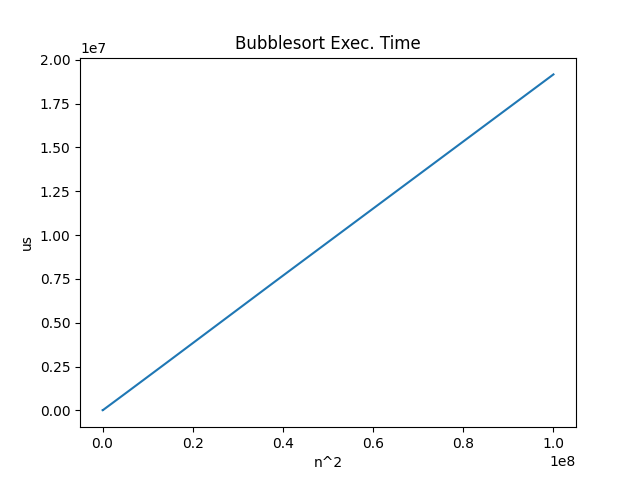
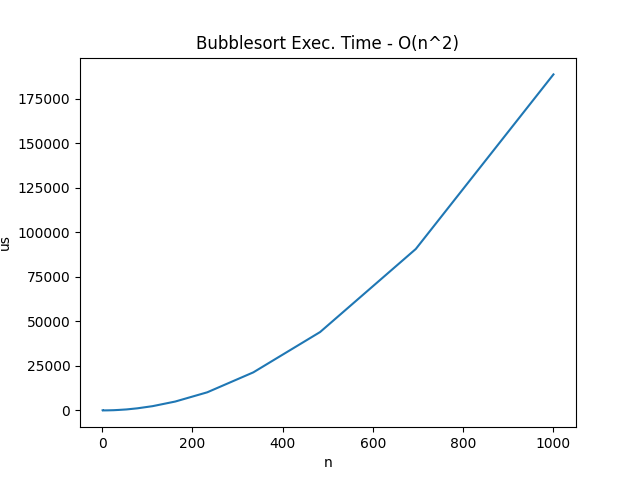
python/mergesort

diff --git a/python/mergesort/mergesort.py b/python/mergesort/mergesort.py
@@ -1,0 +1,90 @@
+import numpy as np
+import matplotlib.pyplot as plt
+from time import perf_counter as time
+
+# O(nlogn)
+def mergesort(a: list, inplace=True):
+    if 0 <= len(a) <= 1:
+        return a
+    
+    if not inplace:
+        arr = a.copy()
+    else:
+        arr = a
+    
+    mergesort_util(arr, 0, len(arr))
+    
+    return arr
+
+def mergesort_util(a: list, i: int, j: int):
+    if j - i == 1:
+        return
+    
+    mid_idx = (j - i) // 2 + i
+    mergesort_util(a, i, mid_idx)
+    mergesort_util(a, mid_idx, j)
+    merge(a, i, j)
+    
+def merge(a: list, i: int, j: int):
+    mid_idx = (j - i) // 2 + i
+    
+    ii = i
+    jj = mid_idx
+    k = 0
+    
+    merged = [None for _ in range(j - i)]
+    while ii < mid_idx and jj < j:
+        if a[ii] < a[jj]:
+            merged[k] = a[ii]
+            ii += 1
+        else:
+            merged[k] = a[jj]
+            jj += 1
+        k += 1
+        
+    while ii < mid_idx:
+        merged[k] = a[ii]
+        ii += 1
+        k += 1
+        
+    while jj < j:
+        merged[k] = a[jj]
+        jj += 1
+        k += 1
+        
+    a[i:j] = merged
+        
+# Test
+print('Mergesort Test 1')
+n_tests = 10
+for _ in range(n_tests):
+    a = np.random.randint(0, 1000000, size=100)
+    assert all(np.array(sorted(a)) == mergesort(a))
+print('PASSED')
+
+# Plot
+n_trials = 5
+n_arrays = 20
+a_lens = np.logspace(0, 6, num=n_arrays).astype(int)
+
+timings = np.zeros(len(a_lens))
+
+for i, a_len in enumerate(a_lens):    
+    avg_timing = 0
+    
+    for trial in range(n_trials):
+        a = np.random.random(size=a_len) * 1000000
+        
+        start = time()
+        mergesort(a)
+        end = time()
+        avg_timing += (end - start) / n_trials
+        
+    timings[i] = avg_timing
+    
+plt.plot(a_lens, timings * 10**6)
+plt.title('Mergesort Exec. Time - O(nlogn)')
+plt.xlabel('n')
+plt.ylabel('us')
+plt.savefig('python/mergesort/complexity.png')
+plt.show()

diff --git a/python/insertion_sort/insertion_sort.py b/python/insertion_sort/insertion_sort.py
@@ -30,7 +30,7 @@ print('PASSED')
 # Plot
 n_trials = 5
 n_arrays = 20
-a_lens = np.logspace(0, 4, num=n_arrays).astype(int)
+a_lens = np.logspace(0, 3, num=n_arrays).astype(int)
 
 timings = np.zeros(len(a_lens))
 
@@ -47,9 +47,9 @@ for i, a_len in enumerate(a_lens):
         
     timings[i] = avg_timing
     
-plt.plot(a_lens**2, timings * 10**6)
-plt.title('Insertion sort Exec. Time')
-plt.xlabel('n^2')
+plt.plot(a_lens, timings * 10**6)
+plt.title('Insertion sort Exec. Time - O(n^2)')
+plt.xlabel('n')
 plt.ylabel('us')
 plt.savefig('python/insertion_sort/complexity.png')
 plt.show()

diff --git a/python/selection_sort/selection_sort.py b/python/selection_sort/selection_sort.py
@@ -30,7 +30,7 @@ print('PASSED')
 # Plot
 n_trials = 5
 n_arrays = 20
-a_lens = np.logspace(0, 4, num=n_arrays).astype(int)
+a_lens = np.logspace(0, 3, num=n_arrays).astype(int)
 
 timings = np.zeros(len(a_lens))
 
@@ -47,9 +47,9 @@ for i, a_len in enumerate(a_lens):
         
     timings[i] = avg_timing
     
-plt.plot(a_lens**2, timings * 10**6)
-plt.title('Selection sort Exec. Time')
-plt.xlabel('n^2')
+plt.plot(a_lens, timings * 10**6)
+plt.title('Selection sort Exec. Time - O(n^2)')
+plt.xlabel('n')
 plt.ylabel('us')
 plt.savefig('python/selection_sort/complexity.png')
 plt.show()

diff --git a/python/bubblesort/bubblesort.py b/python/bubblesort/bubblesort.py
@@ -29,7 +29,7 @@ print('PASSED')
 # Plot
 n_trials = 5
 n_arrays = 20
-a_lens = np.logspace(0, 4, num=n_arrays).astype(int)
+a_lens = np.logspace(0, 3, num=n_arrays).astype(int)
 
 timings = np.zeros(len(a_lens))
 
@@ -46,9 +46,9 @@ for i, a_len in enumerate(a_lens):
         
     timings[i] = avg_timing
     
-plt.plot(a_lens**2, timings * 10**6)
-plt.title('Bubblesort Exec. Time')
-plt.xlabel('n^2')
+plt.plot(a_lens, timings * 10**6)
+plt.title('Bubblesort Exec. Time - O(n^2)')
+plt.xlabel('n')
 plt.ylabel('us')
 plt.savefig('python/bubblesort/complexity.png')
 plt.show()
